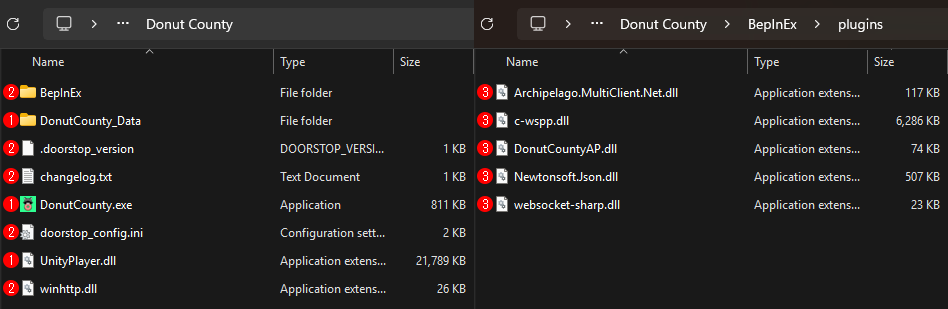
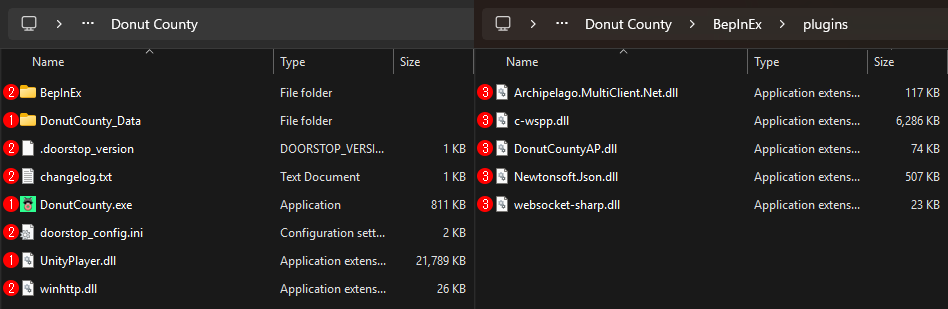
setup image look nicer

Changed region(s): [[0.4895, 0.0291, 0.9483, 0.1165], [0.0, 0.0291, 0.2447, 0.1165]]

diff --git a/donutcounty/docs/en_setup.md b/donutcounty/docs/en_setup.md
@@ -26,9 +26,7 @@ Once you've installed everything it should look like this:
 
 ![post-install diagram](./postinstall.png)
 
-1. From Donut County
-2. From BepInEx
-3. From DonutCountyAP
+(1) From Donut County. (2) From BepInEx. (3) From DonutCountyAP.
 
 ## Usage
 
